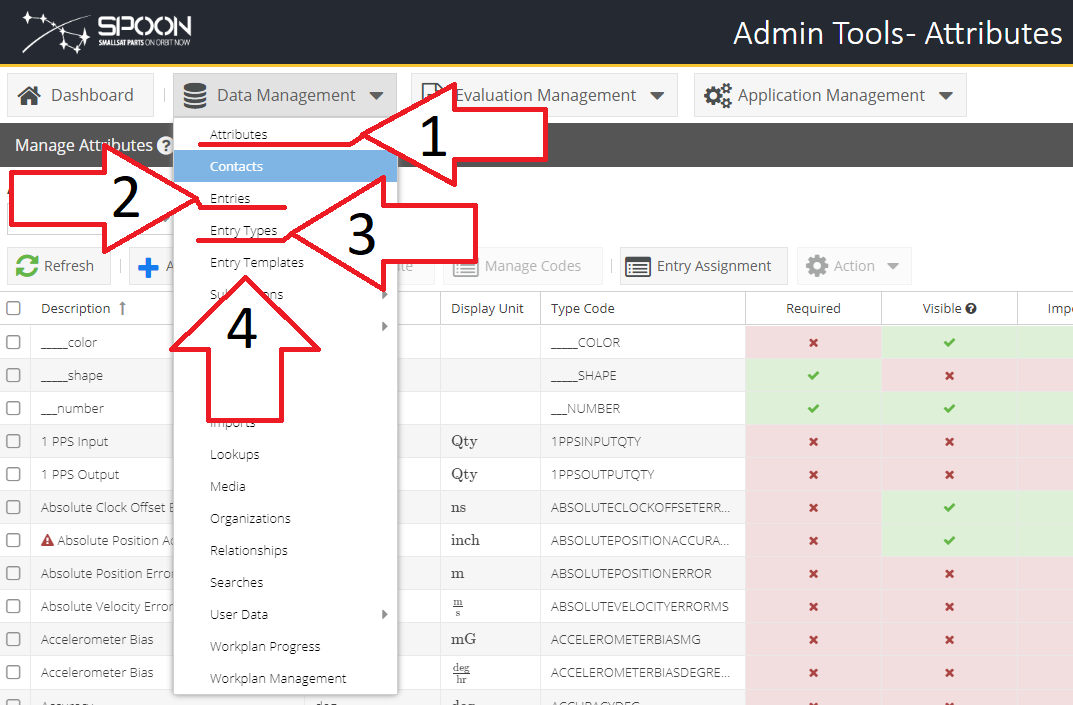
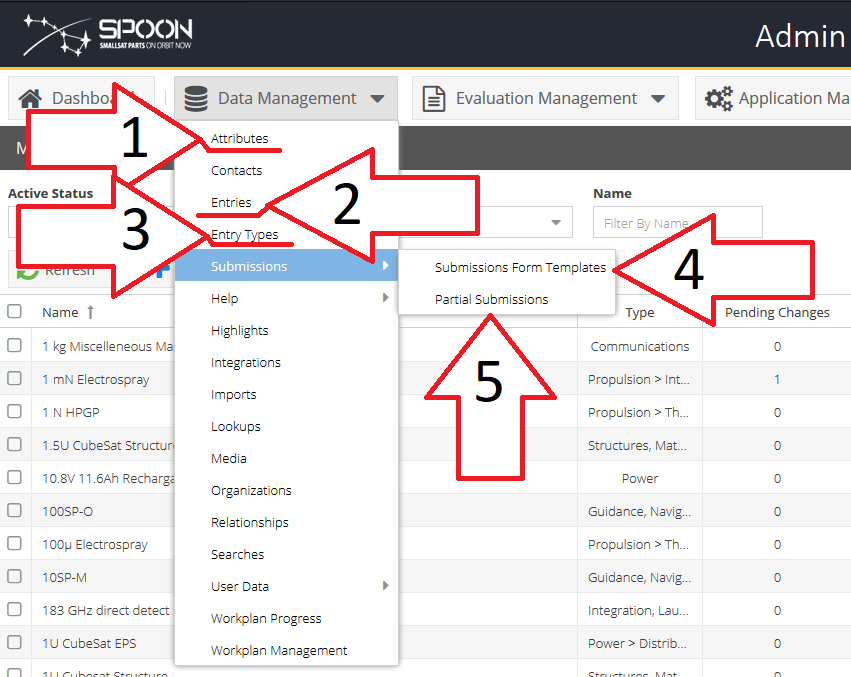
SPOON-1156 Conclude updating main document content

diff --git a/Hugo-StaticGen-Docs/content/applicationadmin/Attributes.md b/Hugo-StaticGen-Docs/content/applicationadmin/Attributes.md
@@ -1,29 +1,75 @@
 +++
-title = "Attributes and Entries Types"
+title = "Attributes and Entry Types"
 description = ""
 weight = 2
 +++
  
  The definitive guide on Spoon's Attributes, a unique part of the site that grants a great deal of utility. 
 
-[__What do I do if blach?__](#gothere)   \
+[__How to add a new Spoon entry category-__](/applicationadmin/attributes/#Attributes)   \
 
  <!--more-->
 
-One of Spoon's most useful utilities to the Small Satellite community is the ability to hold Satellite part's scientific measurements in a machine-friendly way. In the future users might be able to easily manipulate Satellite part data from a publicly accessible API, and the fact that part attributes are stored in a machine-friendly will make it possible for user-made programs to easily work with part data gained from Spoon. 
+One of Spoon's most useful utilities to the Small Satellite community is the ability to hold Satellite part's scientific measurements in a machine-friendly way. In the future users might be able to easily manipulate Satellite part data from a publicly accessible API, and the fact that part attributes are stored in a machine-friendly will make it possible for user-made programs to easily work with part data gained from Spoon. This page will explore all of the Admin Tools related to organizing the data related to Entry Attributes and Entry Types. 
 
+
+![AttributesEtcMapping](/images/AppAdmin/AttributesEtcMapping.png)
+
+<a name="Attributes"></a>
+
+## 1 - Attributes
 
 ![Attributes Page](/images/AppAdmin/Attributes.png)
 
-## Case Study on Adding Spoon Part Attributes And Categories
+An "attribute" on Spoon is usually a scientific measurement of a Spoon entry, such as the Height, Width, and Length of a part. 
 
-### Examples - How to Add an Attribute
-Case study
+If you want to add a new attribute, or edit an existing one, click "__Add New Type__" or "__Edit Attribute__" respectively, and a popup with options will appear.
+
+![Screenshot of the Edit popup](/images/AppAdmin/AttributesEditAttributesPopup.png)
+
+The Options in that Popup | EXPLANATION 
+-----------------: | ----------- 
+Label | The label is the name of the attribute that a user would actually see. 
+Type Code | The TypeCode is the attribute ID that is used internally to keep track of this attribute, as such this should be unique. Any alphabetical character you enter will be converted to upper case, so as such it doesn't matter if you put in a code in all lowercase, when it is entered into the database it is converted to all uppercase. Numbers are acceptable. By convention the Type Code is the same as the label except for when special characters or excessive length in the label necessitate slight difference.  
+Default Code | An attribute '__Code__' is a value for the attribute, for instance a __Code__ for a 'height' attribute could be 46, or also a __Code__ for an 'TRL' attribute could be 'Level 9'. 
+Detailed Description | Any information entered here will be available to the user when they go to add this attribute to their part entry, by way of a tooltip:  <i class="fa fa-question-circle" data-qtip="This is a tooltip."></i>
+Code Value Type | Choose whether this is a number or a Text-like value. 
+Default Unit | Enter a scientific measurement made up of base units (to see what codes to use, see the list here: [Katex Units](/user/advancedusertopics/unitlegend/)). 
+Compatible Unit List | Users may not use the same unit that you do for this particular attribute. For instance you might make an attribute named Height and expect the user to enter the value in millimeters (mm), but for the convenience of the user you may allow alternative measurements (meters, inches, feet).
+Flags | Visible: No information on this can be documented at this time. <br> Important: This may give precedence to this part when displaying the order of attributes and search results. <br> Allow Multiple: Permits a part to have more than one instance of this attribute. <br> Allow User-Created odes: Allows the users to set their own value for the attribute, for instance, set the 'Height' attribute to be a '8'. The only time you would want to leave this box unchecked is when you want to force the user to choose from a pre-made list of values, for instance set 'Inflatable' to be either 'True' or 'False', not permiting the user to enter 'Maybe' or 'Truu'.  <br> Hide on Submission: The attribute will be automatically added to the component without the user being able to change it. Hiding a required attribute requires a default code. Codes must be created before this flag can be set.
 
 
+<a name="Entries"></a>
 
-### A note about Entry Types - which are married to attributes (v versa?)
+## 2 - Entries
+The Admin can add or remove Spoon entries from this screen, but *only if the part in question has already been approved in the past*. Only approved parts show on this page, if you are looking for a part that has just recently been submitted and that has not gone through the approval process, you must look for that part in [Partial Submission](/applicationadmin/Attributes/#PartialSubmissions).
 
-# Web Pages and other Tools
+<a name="Entry Types"></a>
 
-## 
+## 3 - Entry Types
+
+![Entry Types Page Screenshot](/images/AppAdmin/EntryTypesPage.png)
+
+Option | EXPLANATION 
+-----------------: | -----------
+Type Code | Internal ID for catagories, by default anything given will be converted to uppercase upon entry into the database and the convention for naming is an acronym of the category title. 
+Label | Name of the category that the user will see.
+Description | Description. There is no where on the site in v2.11 that displays this information to the user. 
+Parent Type | Parent catagories can have multiple children.
+ Assigned User(s) | 
+ Assigned Group(S) |  Groups are a function of [Security roles](/applicationadmin/securityroles/); assigning a group to this catagories will ensure that the group has permission to see parts of this type ( to review them as they are going through the Workplan Progress).
+ Entry Display Template | No information about this can be documented at this time. 
+ Icon URL | No information about this can be documented at this time. 
+
+<a name="SubmissionsFormTemplates"></a>
+
+## 4 - Submissions Form Templates
+The Submissions Forms Templating systems was created to prepare for the eventuality that users submitting different parts would need to see a different screen. That vision was never fully realized, and in v2.11, the Vendor Form (Default) will be the submission template no matter what, *even if you inactivate the Vendor Form (Default) on the front end*.
+
+The Admin can still make edits to Vendor Form (Default).
+
+<a name="Partial Submissions"></a>
+
+## 5 - Partial Submissions
+
+All of the unfinished, incomplete Entry submissions that users are in process of uploaded to Spoon appear here. Any part that is seen in the Workplan Progress page will also be found here. 

diff --git a/Hugo-StaticGen-Docs/content/applicationadmin/DataManagement.md b/Hugo-StaticGen-Docs/content/applicationadmin/DataManagement.md
@@ -6,26 +6,28 @@ weight = 2
  
  The definitive guide on managing videos, home page widgets, some security options, part relationships and more data on Spoon. 
 
-[__Where can I change what shows on the front page carousel? fixlater__](#gothere)   \
+[__Where can I change what shows on the front page carousel?__](/applicationadmin/datamanagement/#Highlights)   \
 
  <!--more-->
 
-## Data Management
- ![Diagram of main System sub-page](/images/AppAdmin/SystemMapping.png)
-### It's the final countdown!!!!
+ ![Diagram of main System sub-page](/images/AppAdmin/DataManagementMapping.png)
 
-<a name="HelpFrequentlyAskedQuestionis"></a>
+<a name="HelpFrequentlyAskedQuestions"></a>
 
-## - Help > Frequently Asked Questions
+## 1 - Help > Frequently Asked Questions
 In previous versions of Spoon, the "__Help__" button in the top right site menu would bring up a pop-up that had a list of Frequently Asked Questions. In v2.11, that button now redirects the user to the [spoonsite.github.io](https://spoonsite.github.io/) site. Therefore this page is currently obsolete.
 
-## - Help > Support Media
+## 2 - Help > Support Media
 In the top right site menu there is a "__Tutorials__" button that shows the list of video tutorials uploaded onto Spoon. It is also obsolete.
 
-## - Highlights
+<a name="Highlights"></a>
 
+## 3 - Highlights
+"Highlights" is the name of Spoon's carousel home-page widget. Here you can set is on that carousel, and in what order the slides are displayed. 
 
-## - Lookups
+<a name="Lookups"></a>
+
+## 4 - Lookups
 Spoon was designed to be very customizable for the Admin user, and Lookups can be a great tool when the Admin needs to create new states and standards that were not in the original design of Spoon. 
 
 The list of Editable Tables as of v2.11:
@@ -49,8 +51,13 @@ ExperienceTimeType | User who are creating [Entry Reviews](../userdata/#UserData
 RecommendationType | [Evaluations](../evaluations/) use this. No more information about this can be documented at this time.
 DataSensitivity | Similar to the SecurityMarkingType, the Data Sensitivity is a property of Spoon entries that delimits what level of authority is necessary to see the entry. This is the list of Data Sensitivity levels, any entry given any one of the Data Sensitivity levels will become invisible to a default user. The Admin can set who can see the Data Sensitivity levels defined in this list by editing the [Security Roles](../SecurityRoles/#DefaultDataRestrictions).
 
-## - Media
+<a name="Media"></a>
+
+## 5 - Media
 This page lists all the video and images that are used by the site. Note that the "__Copy Link__" only copies the back half of the url to get to see an image, so you will need to prepend the domain name yourself.
 
-## - Relationships
+<a name="Relationships"></a>
+
+## 6 - Relationships
 ![Relationships Screenshot](/images/AppAdmin/DataManagementRelationships.png)
+

diff --git a/Hugo-StaticGen-Docs/content/applicationadmin/UserData.md b/Hugo-StaticGen-Docs/content/applicationadmin/UserData.md
@@ -7,26 +7,23 @@ weight = 2
  
  The definitive guide on seeing and editing Spoon's user data. 
 
-[__How do I see a list of all the organizations registered on Spoon, and their affiliated users/parts?__](#gothere)  \
+[__How do I see a list of all the organizations registered on Spoon, and their affiliated users/parts?__](/applicationadmin/userdata/#Organizations)  \
 
  <!--more-->
 
-
-
  ![Diagram of main System sub-page](/images/AppAdmin/UserDataManagementMapping.png)
-
-
-{{< highlight go >}} A bunch of code here {{< /highlight >}}
-
-{{% notice %}}Stuff to `process` in the *center*.{{% /notice %}}
 
 <a name="Contacts"></a>
 
 ## 1 - Contacts
 Every entry on Spoon can have a designated 'Contact', a person who is responsible for being the point of contact for that particular entry. 
 
+<a name="Organizations"></a>
+
 ## 2 - Organizations
 Here you can see all of the registered organizations on Spoon. There are tools for merging organizations when duplicates are found.
+
+<a name="Questions"></a>
 
 ## 3 - Questions
 Users can ask questions to entry's contacts, but before the question shows up publicly on Spoon, it must be approved by the Admin. 
@@ -54,9 +51,13 @@ Pending | All newly created reviews (created by users, that is) are viewable her
 Active | Setting a review as being "Active" makes it visible to everyone
 Inactive | Inactivating the question/answer archives it. Even the user who placed the question/answer will not be able to see it when he/she looks at the entry. 
 
+<a name="UserDataWatches"></a>
+
 ## 5 - User Data> Watches
 ![Watches page screenshot](/images/AppAdmin/UserDataWatches.png)
 All watches created by all users are visible here. The Admin can toggle off watches on any user, which makes the watch disappear (from the user's perspective).
+
+<a name="UserDataTags"></a>
 
 ## 6 - User Data> Tags
 ![Tags page screenshot](/images/AppAdmin/UserDataTags.png)
